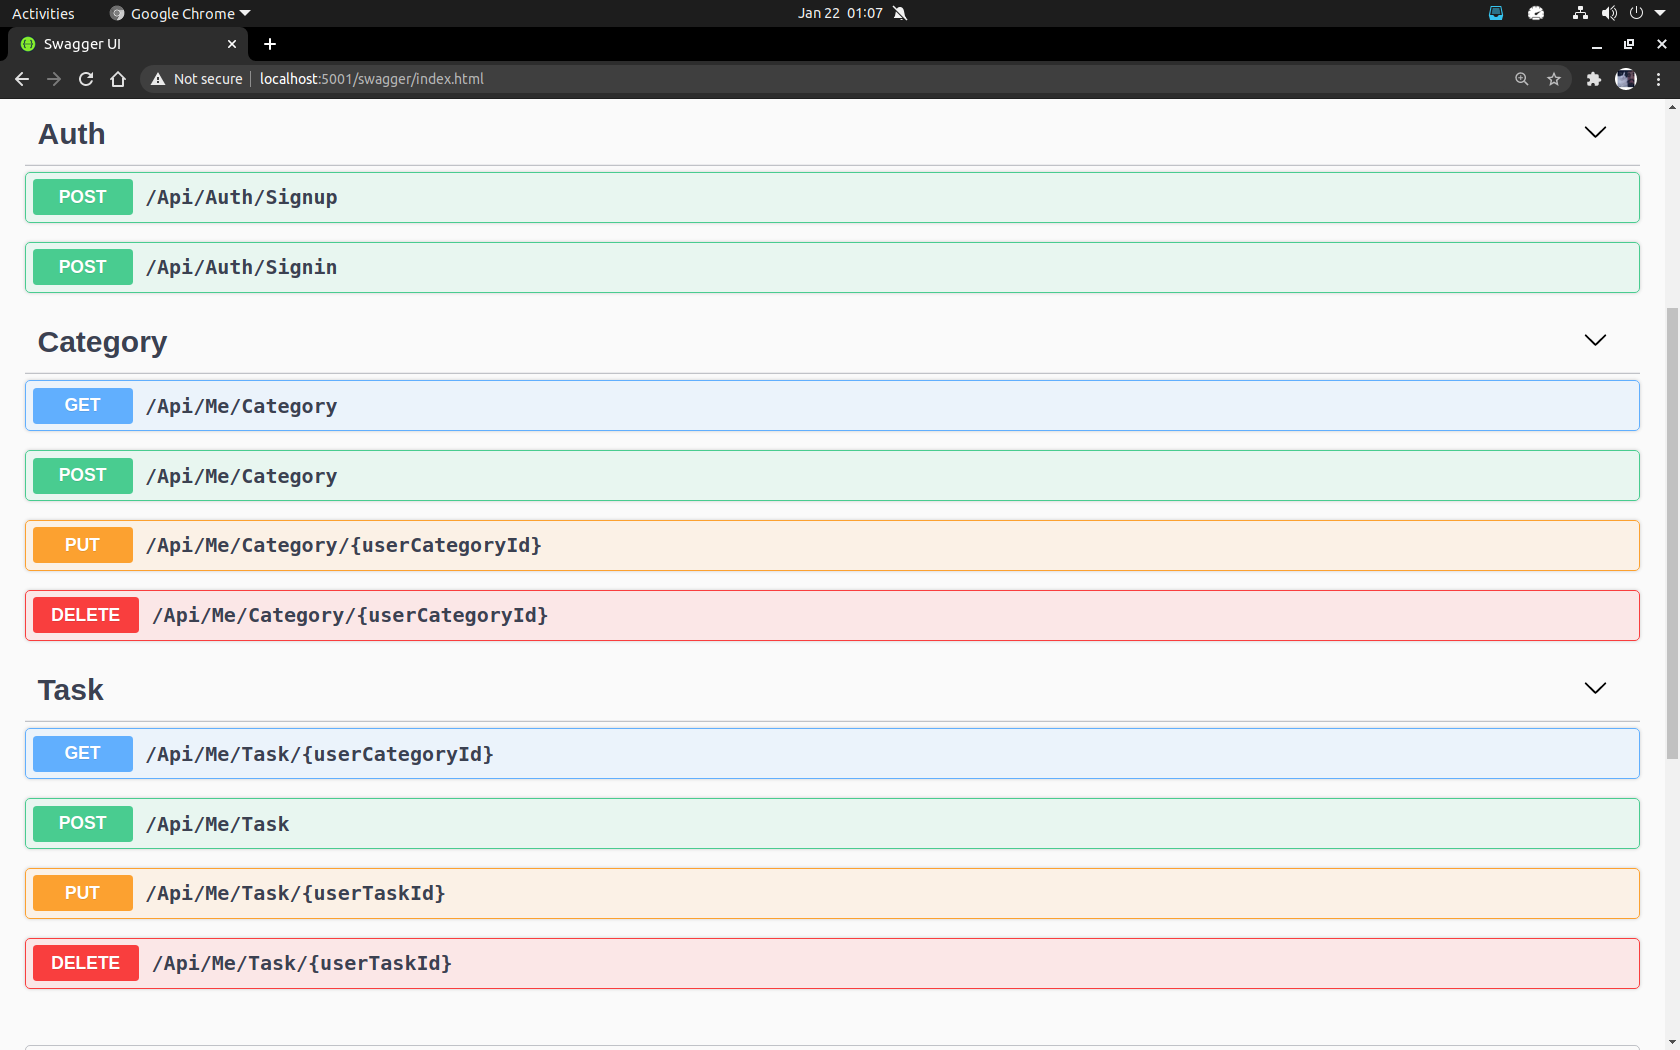
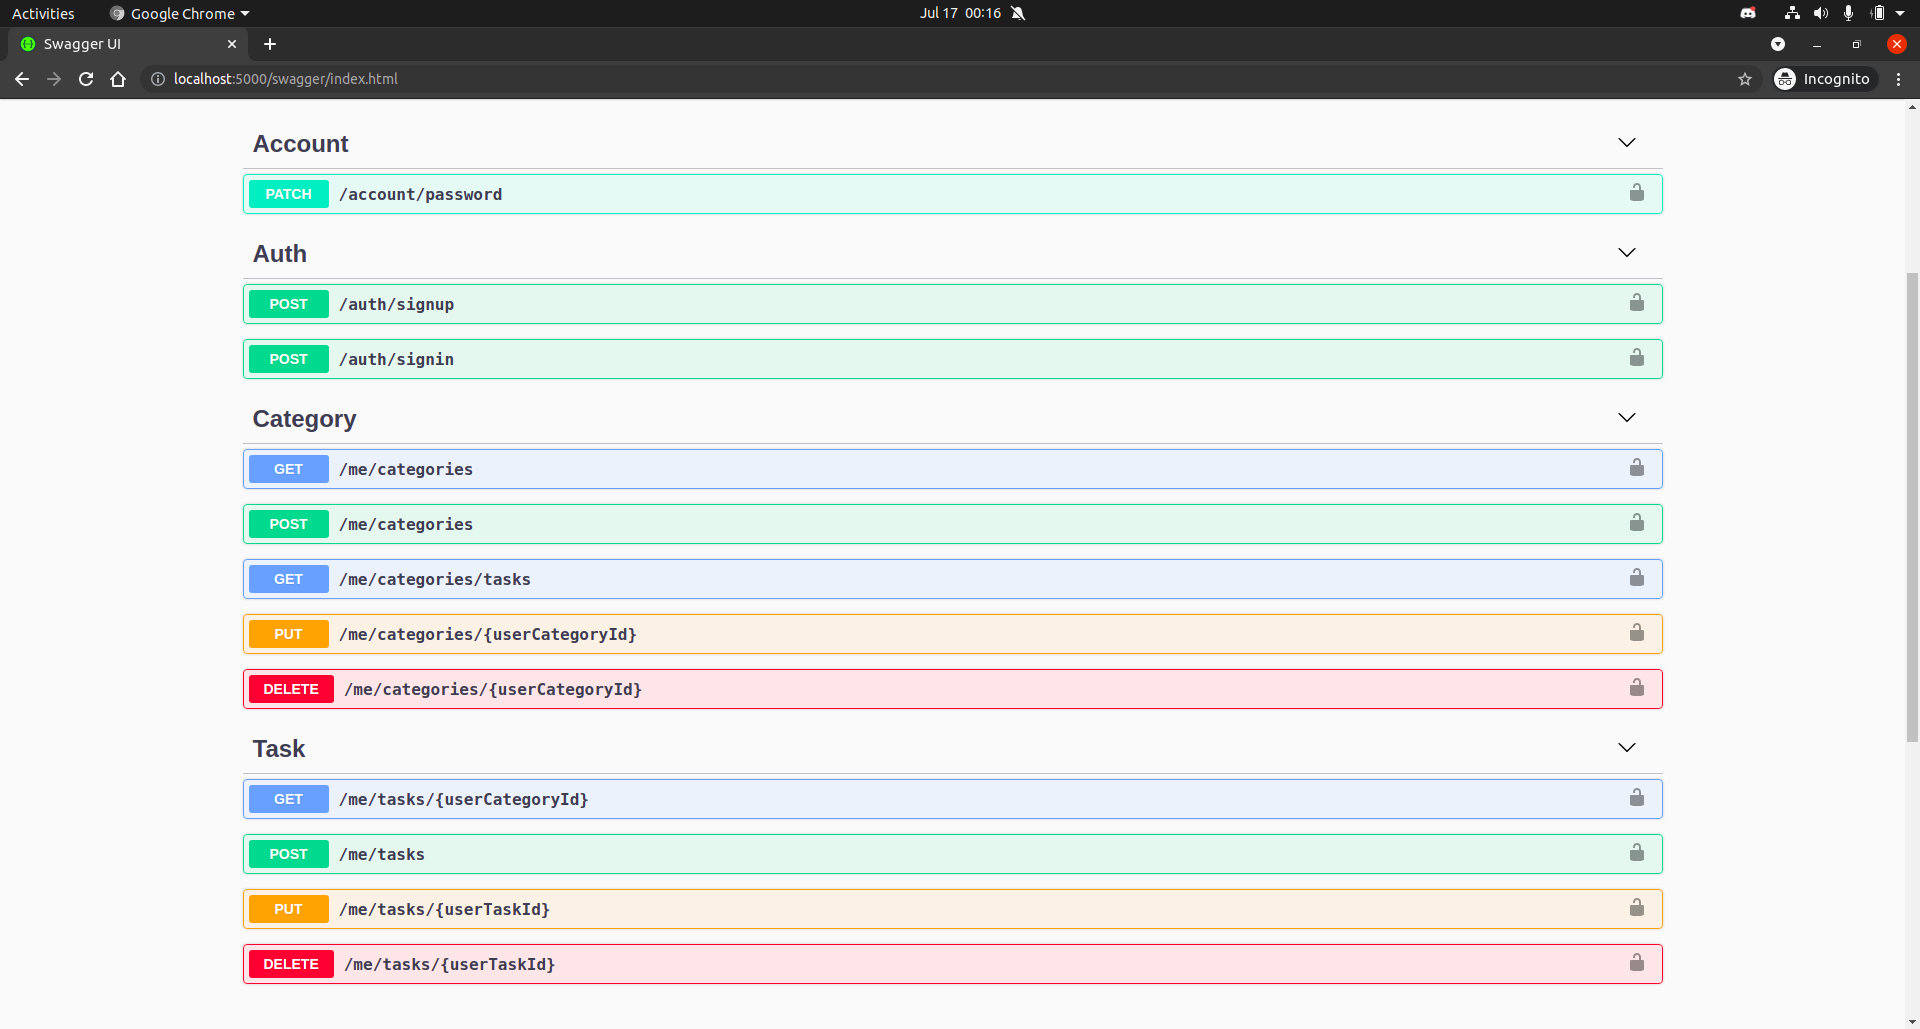
Update: routes, swagger.png

diff --git a/MinyToDo.WebAPI/Controllers/AuthController.cs b/MinyToDo.WebAPI/Controllers/AuthController.cs
@@ -9,42 +9,42 @@ using MinyToDo.Models.Entity;
 
 namespace MinyToDo.WebAPI.Controllers
 {
-    [Route("Api/[controller]")]
+    [Route("auth")]
     public class AuthController : ControllerBase
     {
-        private readonly UserManager<AppUser> _userManager;
-        private readonly IJwtTokenService _jwtTokenService;
-        private readonly IUserCategoryService _userCategoryService;
-        private readonly IMapper _mapper;
+        private readonly UserManager<AppUser> userManager;
+        private readonly IJwtTokenService jwtTokenService;
+        private readonly IUserCategoryService userCategoryService;
+        private readonly IMapper mapper;
         public AuthController(IMapper mapper, IJwtTokenService jwtTokenService, UserManager<AppUser> userManager, IUserCategoryService userCategoryService)
         {
-            _mapper = mapper;
-            _jwtTokenService = jwtTokenService;
-            _userManager = userManager;
-            _userCategoryService = userCategoryService;
+            this.mapper = mapper;
+            this.jwtTokenService = jwtTokenService;
+            this.userManager = userManager;
+            this.userCategoryService = userCategoryService;
         }
 
-        [HttpPost("Signup")]
+        [HttpPost("signup")]
         public async Task<IActionResult> SignUp([FromBody] SignUpRequest value)
         {
             if (User.Identity.IsAuthenticated) return BadRequest();
 
-            var newAppUser = _mapper.Map<AppUser>(value);
+            var newAppUser = mapper.Map<AppUser>(value);
 
-            var result = await _userManager.CreateAsync(newAppUser, value.Password);
+            var result = await userManager.CreateAsync(newAppUser, value.Password);
             if (result.Succeeded)
             {
                 #pragma warning disable 4014 // creating default UserCategory for new signing up user.
-                _userCategoryService.InsertAsync(newAppUser.Id, new UserCategoryRequest { Name = "General" });
+                userCategoryService.InsertAsync(newAppUser.Id, new UserCategoryRequest { Name = "General" });
                 #pragma warning disable 4014
 
-                var token = _jwtTokenService.CreateToken(newAppUser);
+                var token = jwtTokenService.CreateToken(newAppUser);
                 return Ok(new { token });
             }
             return BadRequest(result.Errors);
         }
 
-        [HttpPost("Signin")]
+        [HttpPost("signin")]
         public async Task<IActionResult> SignIn([FromBody] SignInRequest value)
         {
             if (User.Identity.IsAuthenticated) return BadRequest();
@@ -52,13 +52,13 @@ namespace MinyToDo.WebAPI.Controllers
             var isIdentifierEmail = value.Identifier.Contains('@');
 
             var appUser = isIdentifierEmail
-            ? await _userManager.FindByEmailAsync(value.Identifier)
-            : await _userManager.FindByNameAsync(value.Identifier);
+            ? await userManager.FindByEmailAsync(value.Identifier)
+            : await userManager.FindByNameAsync(value.Identifier);
 
-            var isPasswordRelatedToFoundUser = appUser != null && await _userManager.CheckPasswordAsync(appUser, value.Password);
+            var isPasswordRelatedToFoundUser = appUser != null && await userManager.CheckPasswordAsync(appUser, value.Password);
             if (isPasswordRelatedToFoundUser)
             {
-                var token = _jwtTokenService.CreateToken(appUser);
+                var token = jwtTokenService.CreateToken(appUser);
                 return Ok(new { token });
             }
             return Unauthorized();

diff --git a/MinyToDo.WebAPI/Controllers/AccountController.cs b/MinyToDo.WebAPI/Controllers/AccountController.cs
@@ -8,15 +8,13 @@ using MinyToDo.Models.Entity;
 
 namespace MinyToDo.WebAPI.Controllers
 {
-    [Route("Api/[controller]")]
-
-    [Authorize]
+    [Authorize, Route("account")]
     public class AccountController : ControllerBase
     {
-        private readonly UserManager<AppUser> _userManager;
+        private readonly UserManager<AppUser> userManager;
         public AccountController(UserManager<AppUser> userManager)
         {
-            _userManager = userManager;
+            this.userManager = userManager;
         }
 
         public class Password
@@ -27,12 +25,12 @@ namespace MinyToDo.WebAPI.Controllers
             public string New { get; set; }
         }
 
-        [HttpPut("Password")]
+        [HttpPatch("password")]
         public async Task<IActionResult> PasswordChange([FromBody] Password value)
         {
-            var authorizedUser = await _userManager.FindByIdAsync(User.GetAuthorizedUserId().ToString());
-            var result = await _userManager.ChangePasswordAsync(authorizedUser, value.Current, value.New);
-            return result.Succeeded ? Ok("Changed") : BadRequest(result.Errors);
+            var authorizedUser = await userManager.FindByIdAsync(User.GetAuthorizedUserId().ToString());
+            var result = await userManager.ChangePasswordAsync(authorizedUser, value.Current, value.New);
+            return result.Succeeded ? NoContent() : BadRequest(result.Errors);
         }
     }
 }
